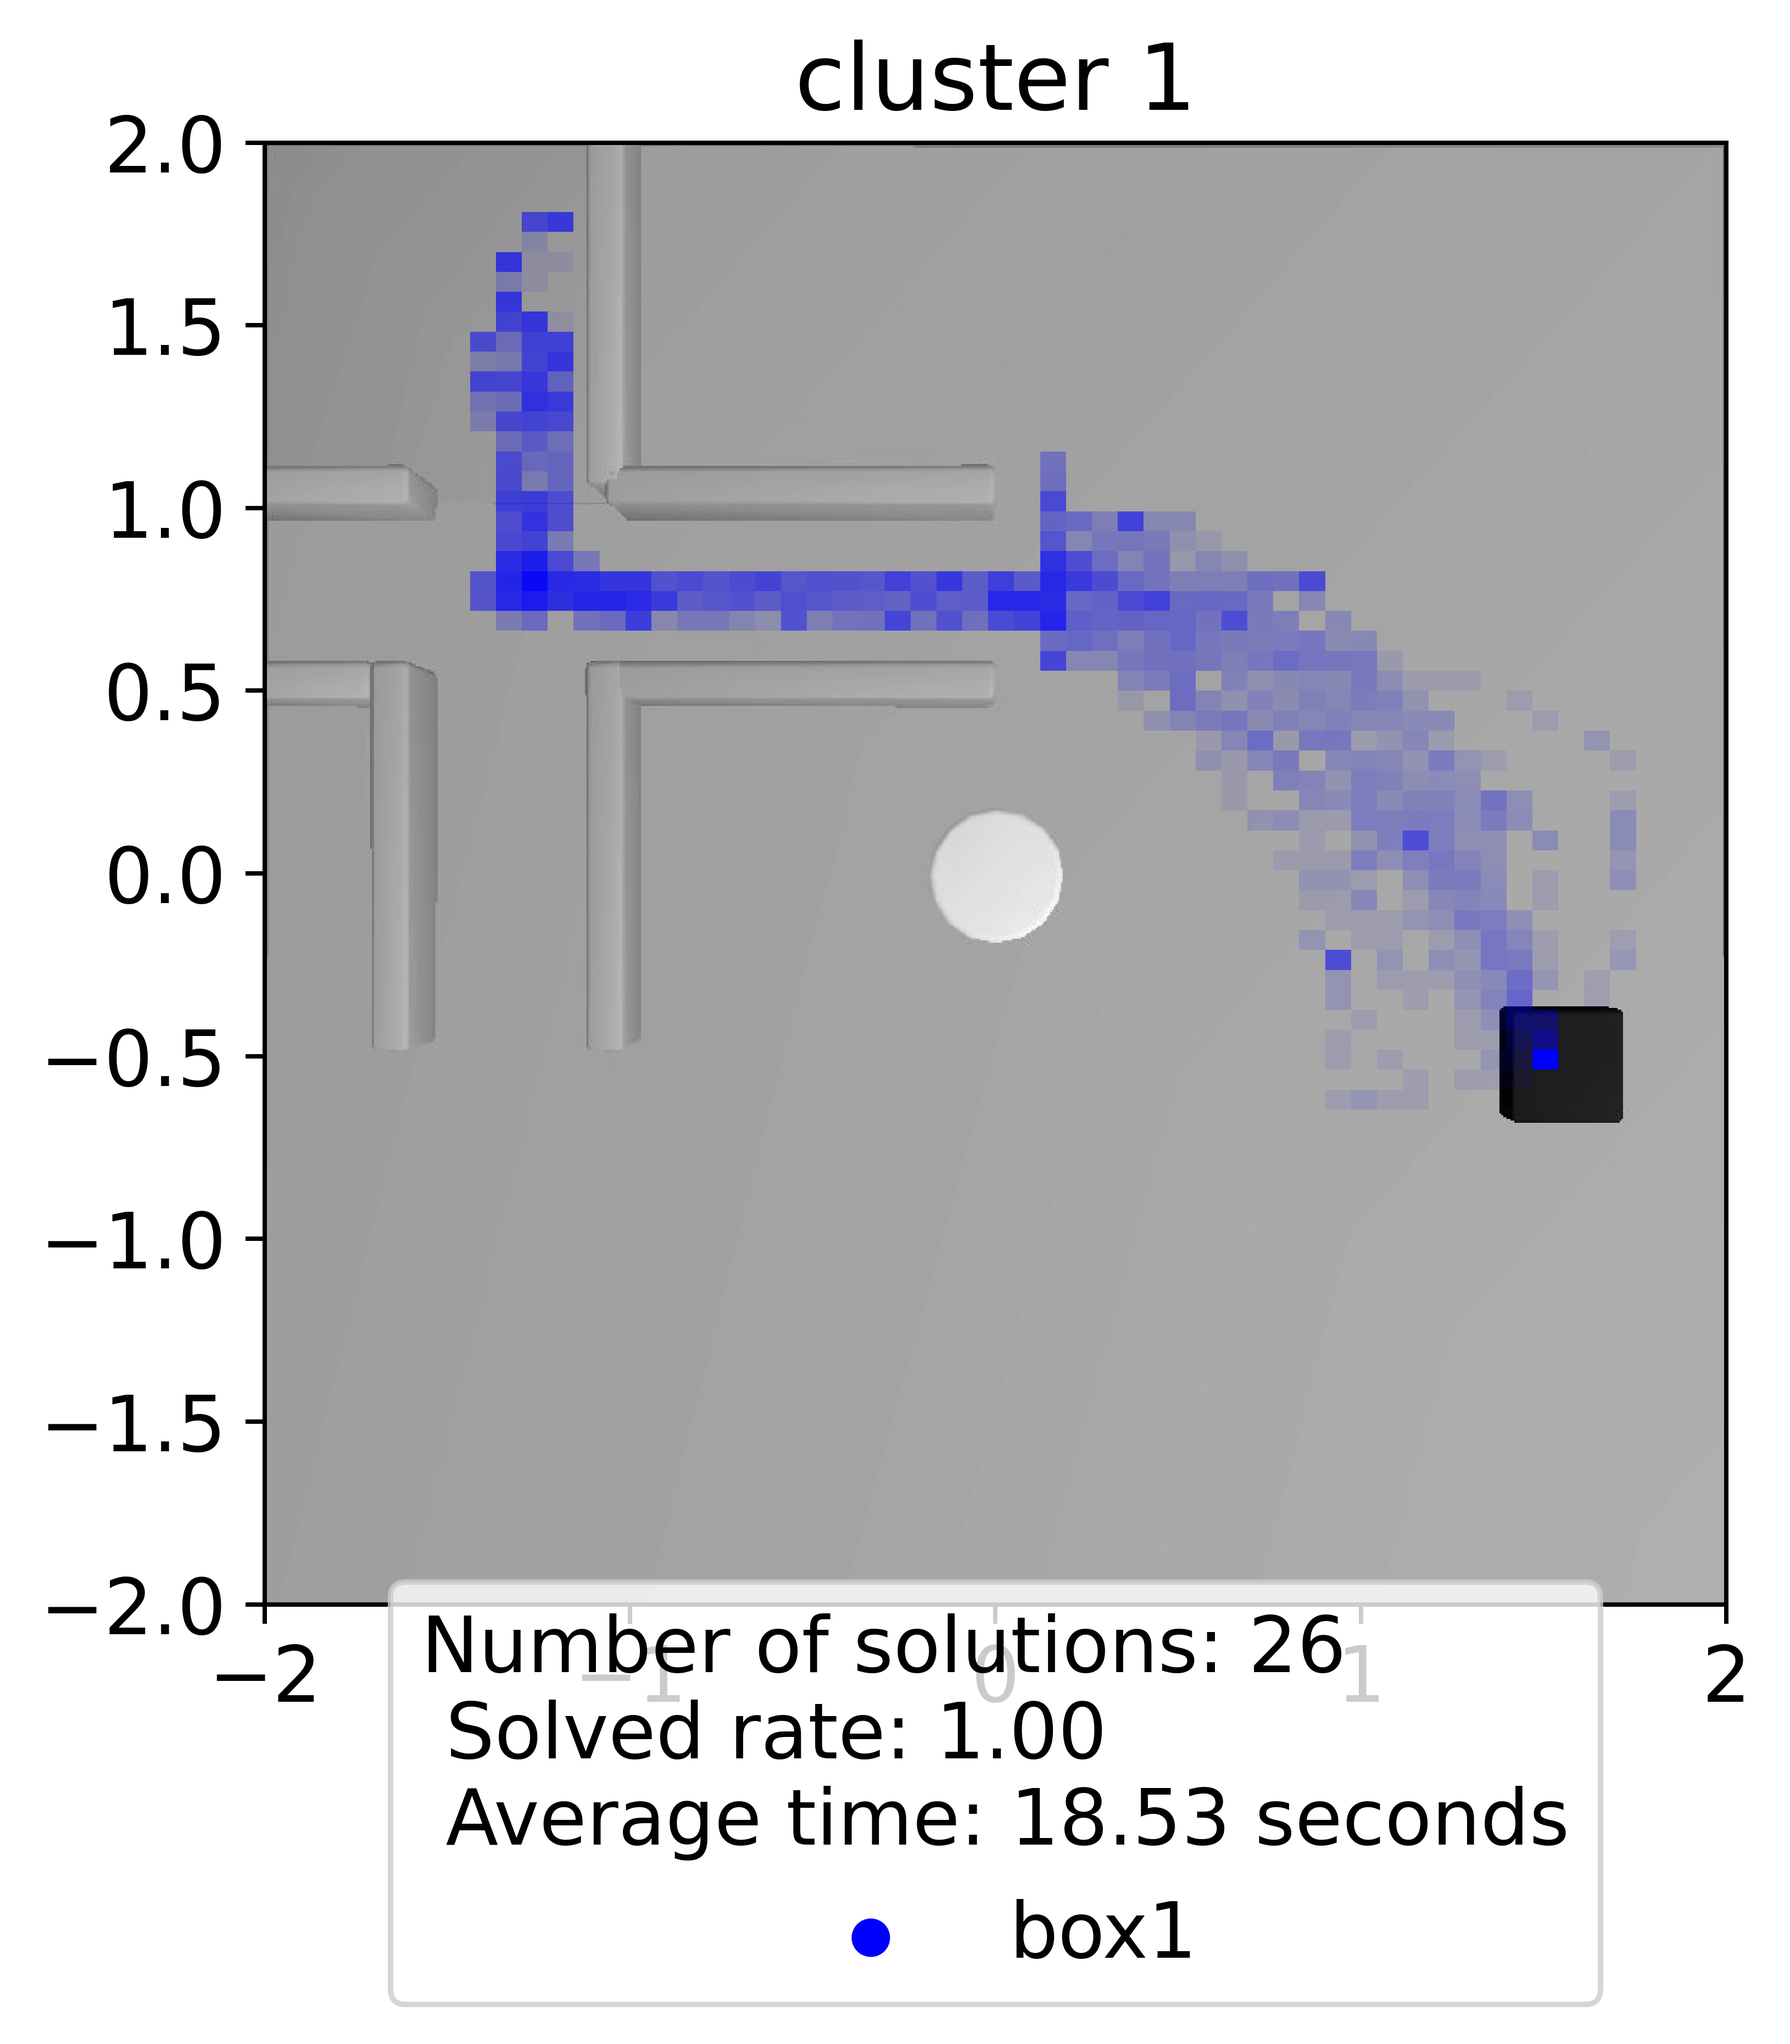
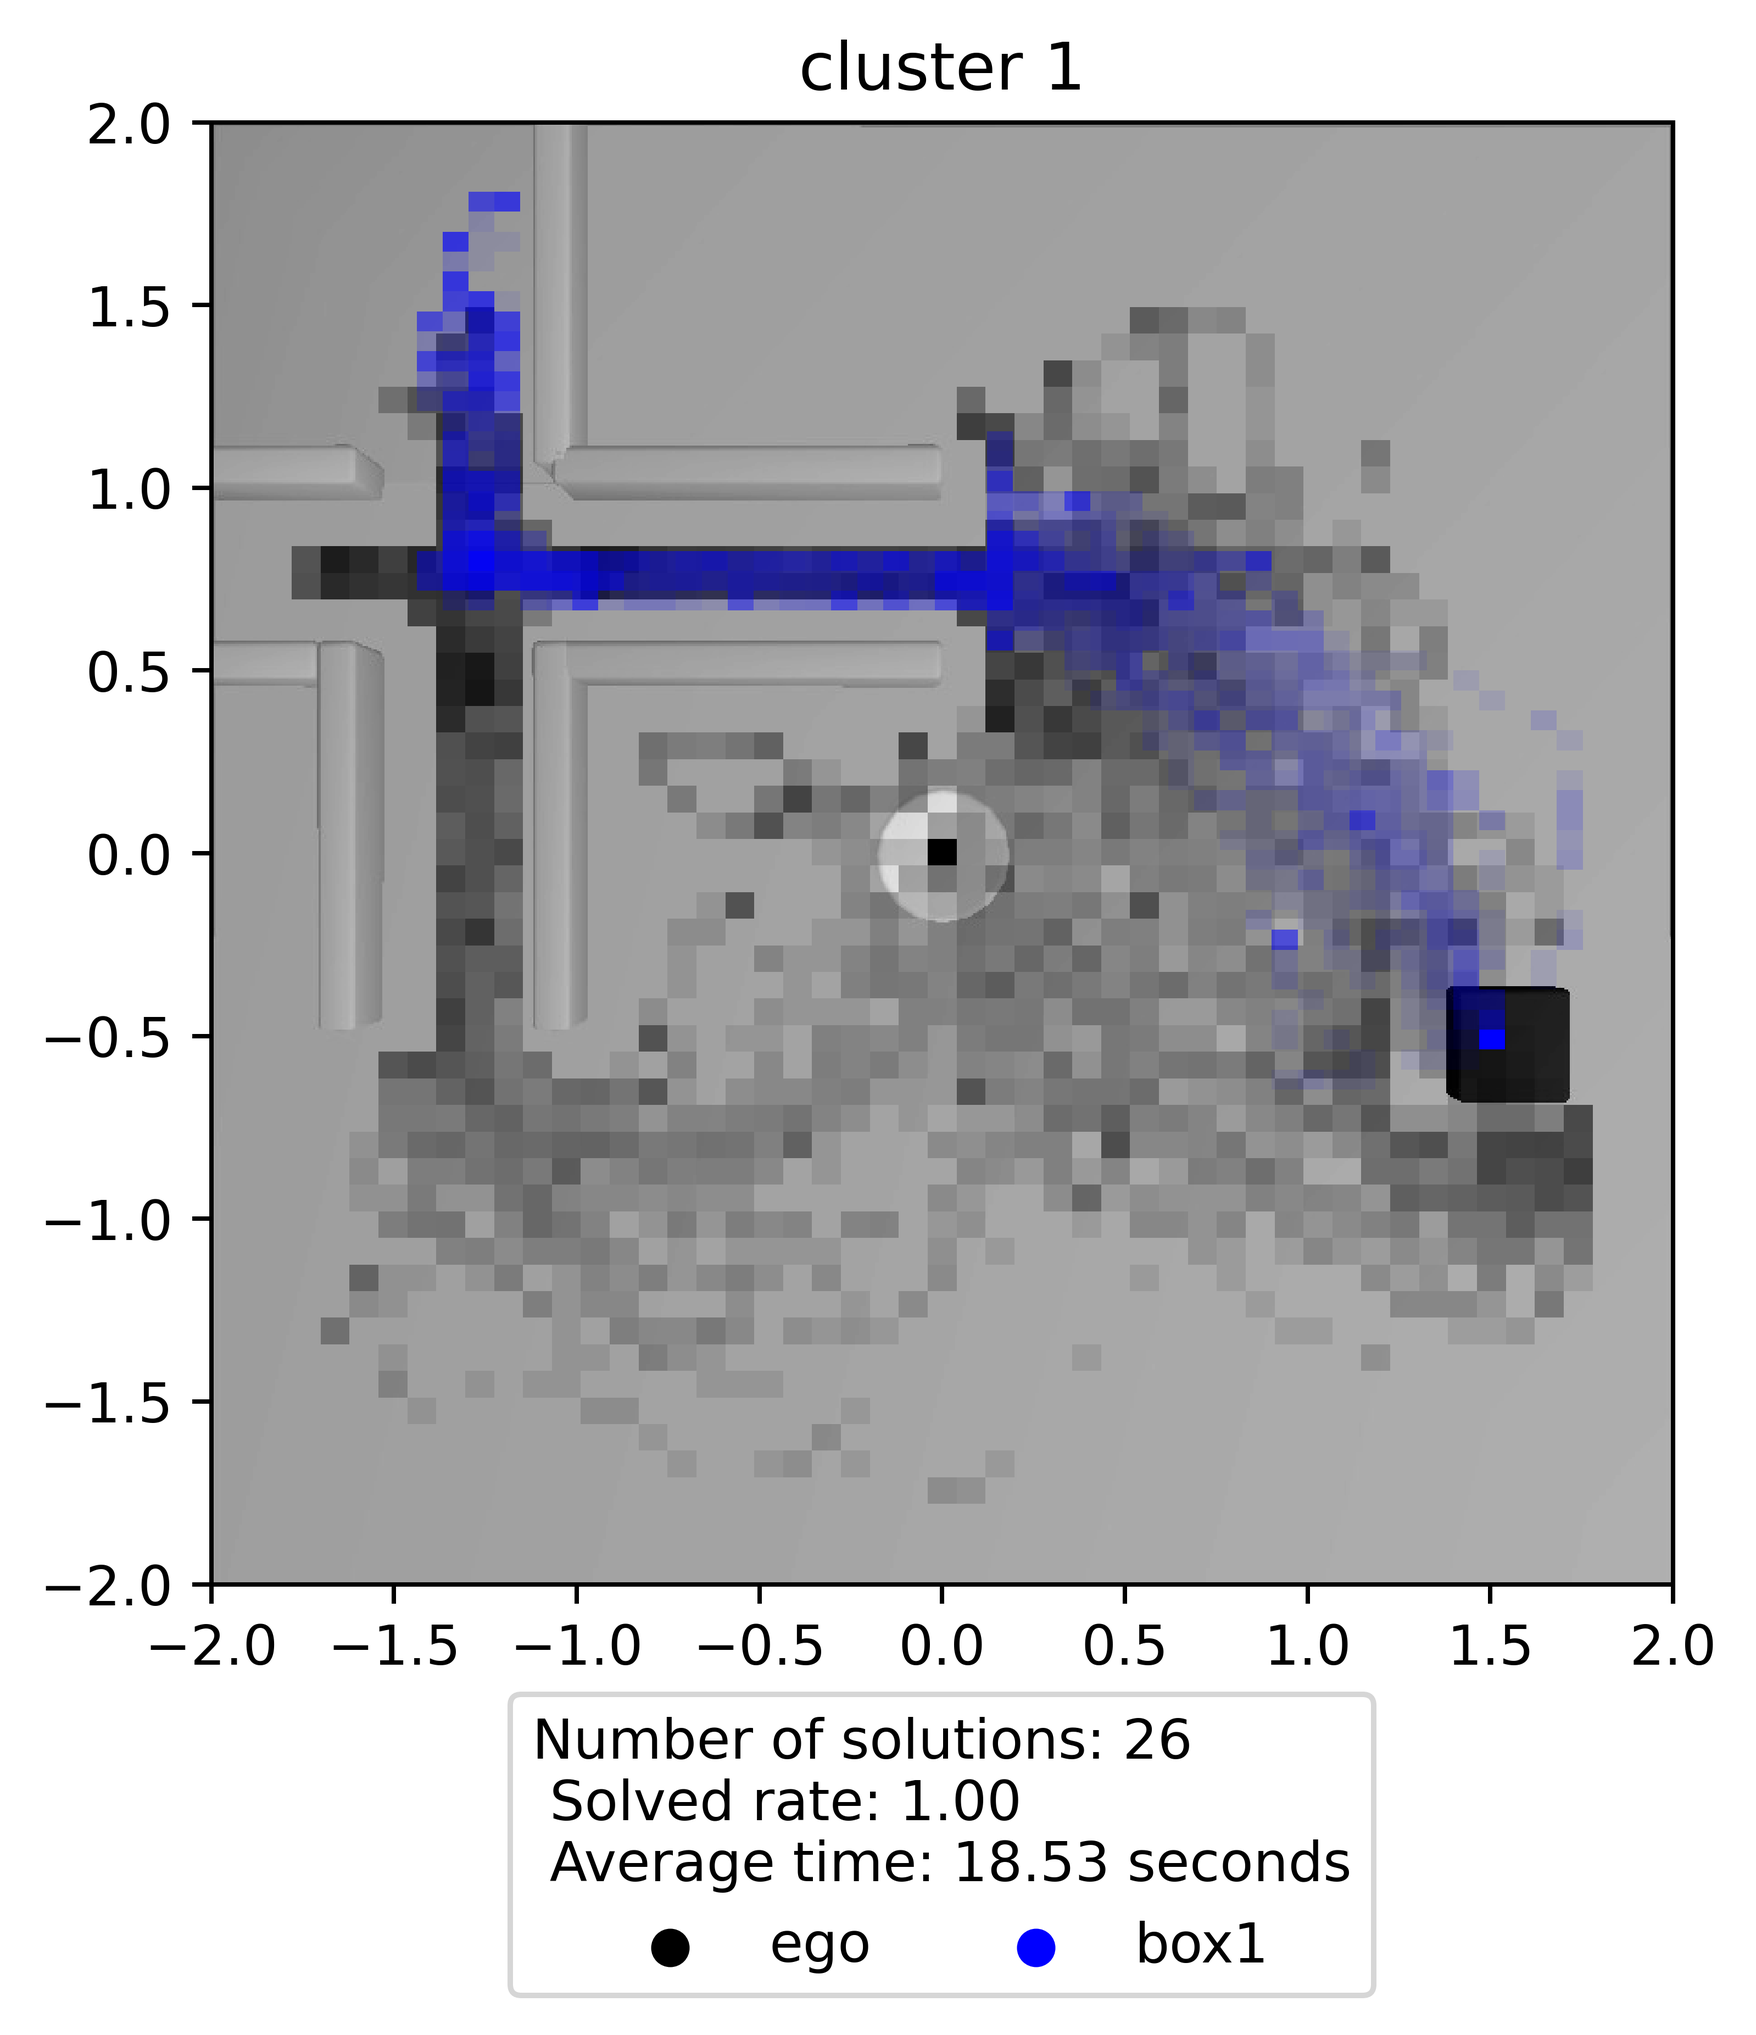
p2 clustering results including Ego

diff --git a/SRC/clusterPositionalVector.py b/SRC/clusterPositionalVector.py
@@ -335,7 +335,7 @@ puzzels = [2] #[21,22,23,24,25,26,16,17,18,19,20]
 
 log_scale = True
 ignore_Unattached_ego = True
-manual_number_of_clusters = False
+manual_number_of_clusters = True
 softdtwscore = True
 
 for puzzleNumber in puzzels:
@@ -480,8 +480,9 @@ for puzzleNumber in puzzels:
     for cluster_id, data_ids in cluster_ids.items():
         first_image, frames = gif(desired_puzzle=puzzleNumber,ids=data_ids, attachment=True, includeEgo=True)
         first_image.save(f'{plotPath}/Cluster{cluster_id}_puzzle{puzzleNumber}_{sequence_type}.gif', save_all=True, append_images=frames, duration=500, loop=0)
-        Heatmap(cluster_id, data_ids, puzzleNumber,plotPath, ignore_ego=True, log_scale=log_scale)
-        softbarycenter(cluster_id, data_ids, puzzleNumber,plotPath)
+        Heatmap(cluster_id, data_ids, puzzleNumber,plotPath, ignore_ego=False, log_scale=log_scale)
+        if not os.path.isfile (f'{plotPath}/Cluster{cluster_id}_puzzle{puzzleNumber}_{sequence_type}_softbarycenter.png'):
+            softbarycenter(cluster_id, data_ids, puzzleNumber,plotPath)
         
     
     fig = plt.figure()
